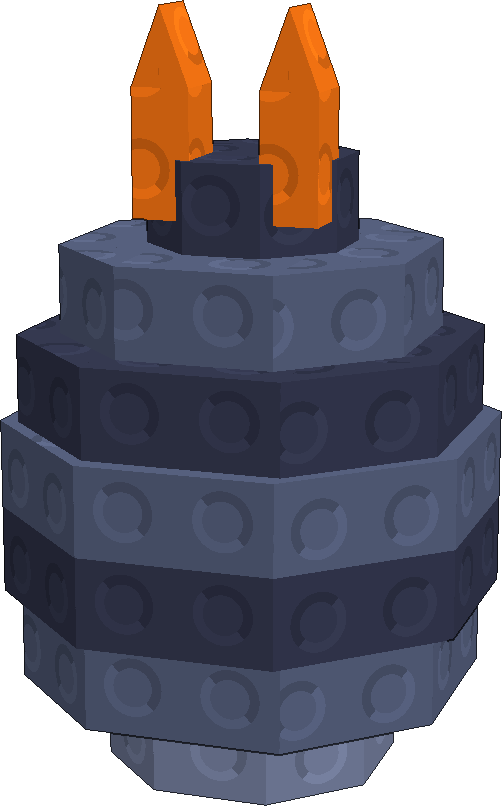
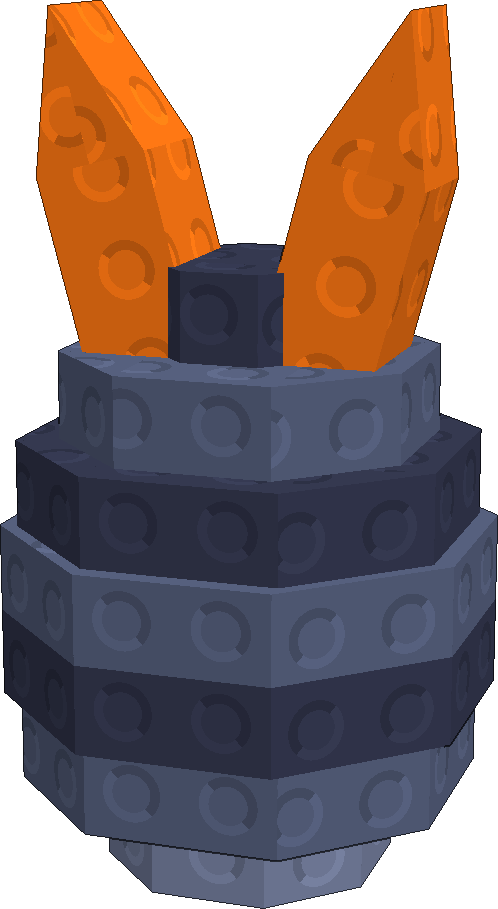
Rockworm egg: use QM's edited egg
designs/eggs/c_style/RockwormEgg.bbmodel is QM's file now; regenerated the model and the
UI picture (rockworm_egg.py qm). The egg image needs re-uploading in Studio.

Claude-Session: https://claude.ai/code/session_01DtNDqo7ufZKCJaGY7kSuJH

diff --git a/tools/rockworm_egg.py b/tools/rockworm_egg.py
@@ -36,6 +36,32 @@ def rockworm_egg():
     return egg
 
 
+def qm_render():
+    """QM's hand-edited egg (designs/eggs/c_style/RockwormEgg.bbmodel, Oct 11) is the game's
+    now: convert it with `bbmodel_to_luau.py --zyx designs/eggs/c_style/RockwormEgg.bbmodel
+    src/shared/Eggs/RockwormEggModel.luau`, then this writes its UI picture.
+    Run: python3 tools/rockworm_egg.py qm"""
+    import json
+    import numpy as np
+    from horse_egg_takes import VIEWS
+    from partlib import render
+    from snow_rig import posed
+    m = json.load(open(os.path.join(O.ROOT, "designs", "eggs", "c_style", "RockwormEgg.bbmodel")))
+    ps = posed(m, None, 0)
+    for p in ps:
+        if p.name.startswith("Glow"):
+            p.neon = True
+    v = {k: tuple(np.array(x, float) + [0, 0.3, 0]) for k, x in VIEWS[0].items()}
+    im = render(ps, W=1100, H=1100, fov=28, transparent=True, **v)
+    im = im.crop(im.getbbox())
+    im.save(os.path.join(O.ROOT, "assets", "ui", "RockwormEggRender.png"))
+    im.save("/mnt/project-files/animals/rockworm/RockwormEgg_QM.png")
+    print("render", im.size)
+
+
 if __name__ == "__main__":
-    O.EGGS = [("Rockworm", rockworm_egg)]
-    O.main("Rockworm", preview="/mnt/project-files/animals/rockworm")
+    if sys.argv[1:2] == ["qm"]:
+        qm_render()
+    else:
+        O.EGGS = [("Rockworm", rockworm_egg)]
+        O.main("Rockworm", preview="/mnt/project-files/animals/rockworm")
